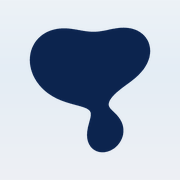
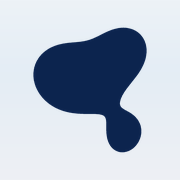
Brand marks at native orb orientation (0deg); site keeps its 15deg CSS tilt
Card and favicon now share the original, untilted silhouette (the site's
rotation exists only to seat the orb behind the nav).

diff --git a/_design/make_brand_assets.py b/_design/make_brand_assets.py
@@ -292,9 +292,11 @@ def make_card(polys, root):
     # Orb: right side at 1.05x, nearly full contour visible so the heart
     # silhouette reads and rhymes with the favicon (V1 framing, 12 Jun 2026;
     # 1.25x bleed framing rejected — favicon match beats site-crop match
-    # on first-contact surfaces). Site rotation (15deg CW).
+    # on first-contact surfaces). NATIVE orientation (0°): the site's 15° CSS
+    # rotation exists to seat the orb behind the nav; brand marks keep the
+    # original, more charming tilt (Patrick, 12 Jun 2026).
     orb = draw_orb_stacked((w, h), polys, center=(w * 0.76, h * 0.40),
-                           scale=1.05 * SS, angle_deg=15, skip=SKIP_BANDS,
+                           scale=1.05 * SS, angle_deg=0, skip=SKIP_BANDS,
                            ramp=ORB_RAMP_DARK, global_a=0.77)
     img = Image.alpha_composite(img, orb)
     img = add_grain(img, np.random.default_rng(SEED))
@@ -329,15 +331,14 @@ BLOB_BRIGHT = '#A8C8E0'       # dark-mode mark (--nav-inactive)
 
 
 def blob_polys(frac):
-    """Flat silhouette: level set of the UNPERTURBED mixture, site rotation."""
+    """Flat silhouette: level set of the UNPERTURBED mixture, NATIVE
+    orientation (0° — matches the card; the site's 15° tilt is CSS-only)."""
     px, py, PZ = gc.evaluate_mixture(MIXTURE, gc.GRID_SIZE, gc.VIEWBOX_W, gc.VIEWBOX_H)
-    th = np.deg2rad(15)
-    R = np.array([[np.cos(th), -np.sin(th)], [np.sin(th), np.cos(th)]])
     out = []
     for cc in find_contours(PZ, frac * PZ.max()):
         P = np.column_stack([np.interp(cc[:, 1], np.arange(len(px)), px),
                              np.interp(cc[:, 0], np.arange(len(py)), py)])
-        out.append(P @ R.T)
+        out.append(P)
     return out
 
 
